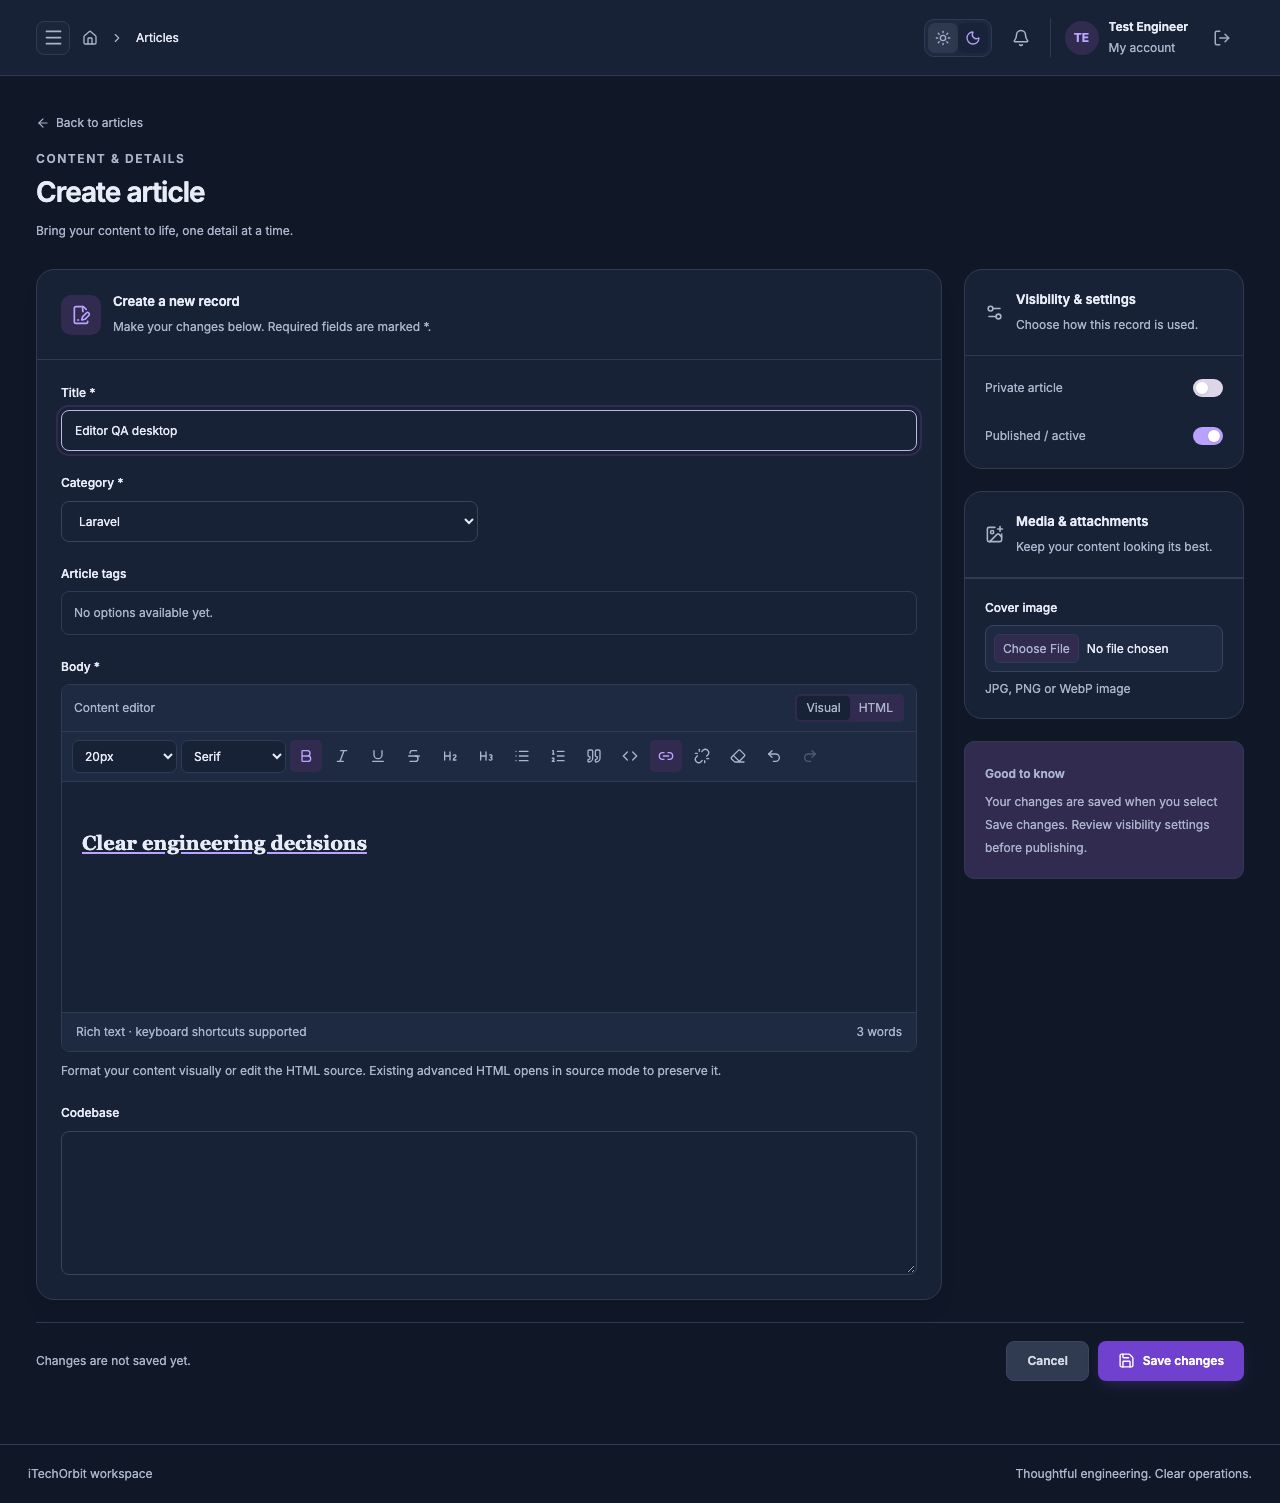
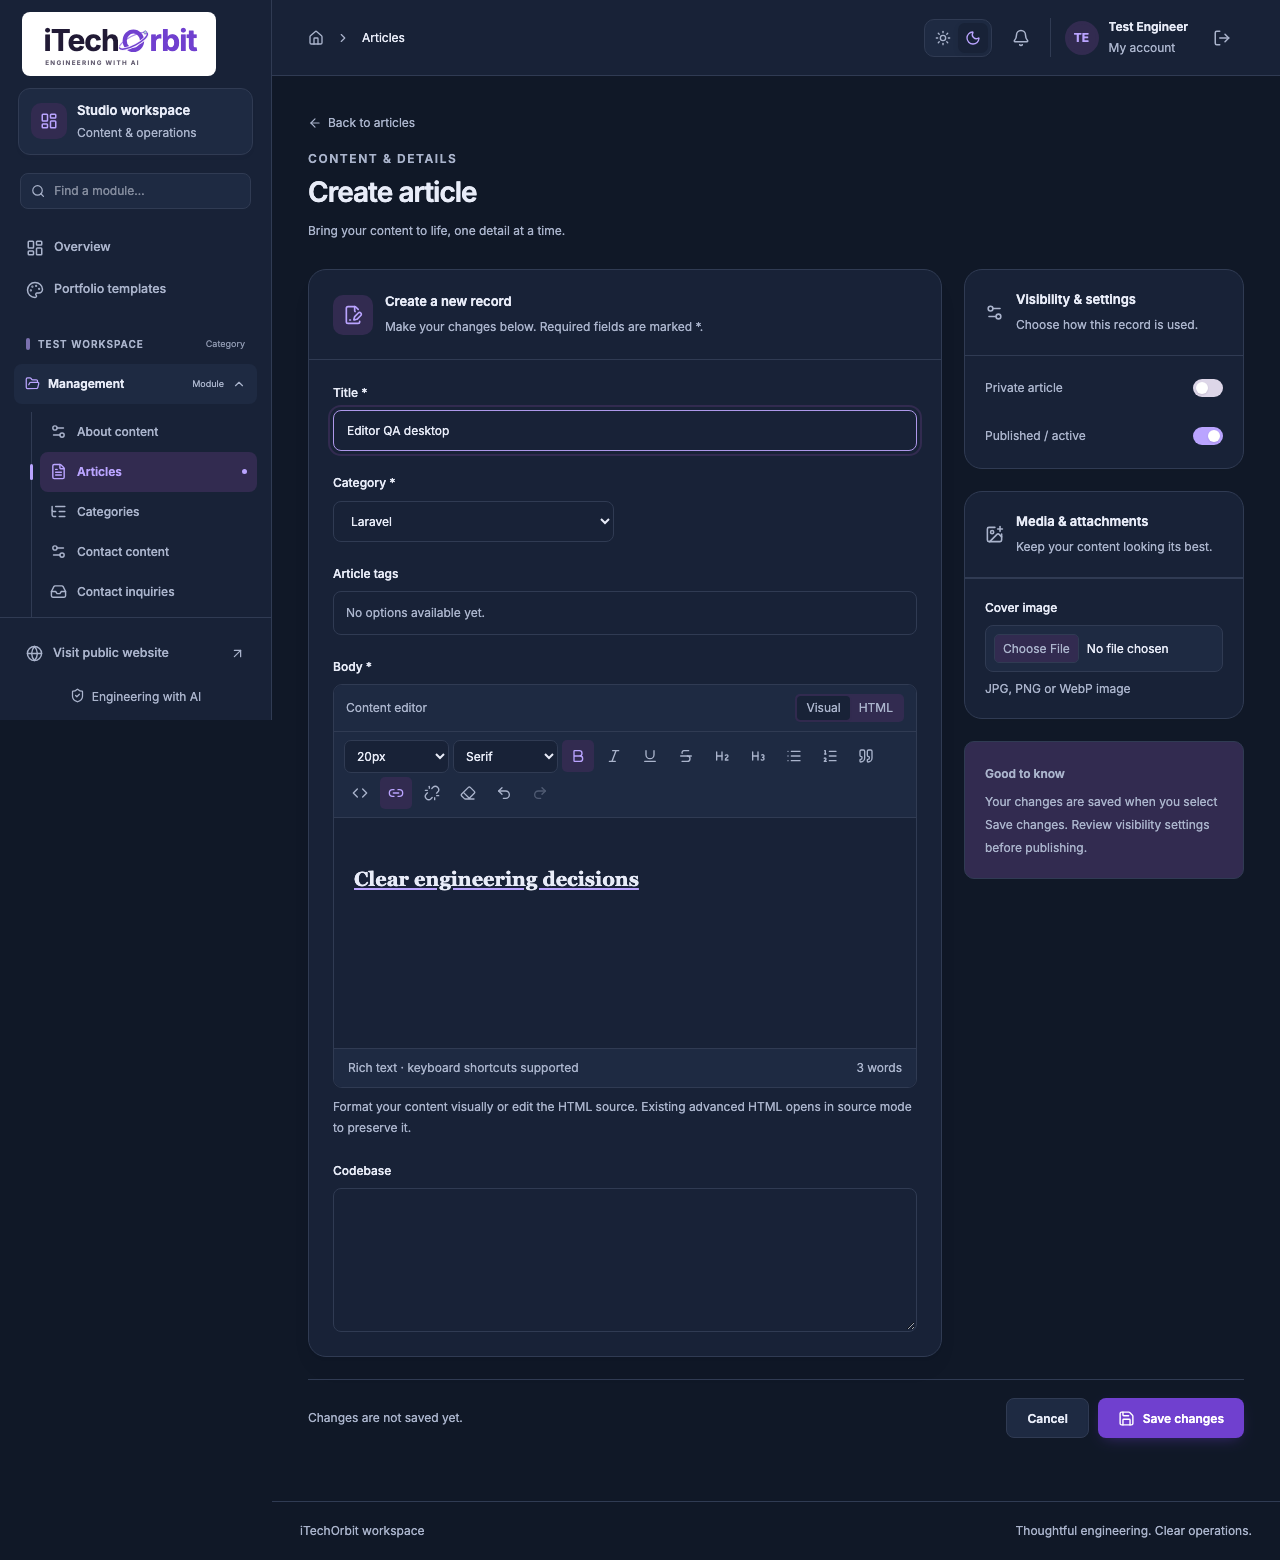
Restore previous responsive sidebar behavior

diff --git a/resources/js/layouts/AdminLayout.tsx b/resources/js/layouts/AdminLayout.tsx
@@ -26,8 +26,10 @@ export default function AdminLayout({ children, title, navigation }: { children:
       if (event.shiftKey && document.activeElement === first) { event.preventDefault(); last?.focus(); }
       else if (!event.shiftKey && document.activeElement === last) { event.preventDefault(); first?.focus(); }
     };
-    document.addEventListener('keydown', keys);
-    return () => { document.body.style.overflow = previous; document.removeEventListener('keydown', keys); };
+    const desktop = window.matchMedia('(min-width: 1024px)');
+    const resize = () => { if (desktop.matches) setOpen(false); };
+    document.addEventListener('keydown', keys); desktop.addEventListener('change', resize);
+    return () => { document.body.style.overflow = previous; document.removeEventListener('keydown', keys); desktop.removeEventListener('change', resize); };
   }, [open]);
   const groups = new Map<string, Map<string, Navigation>>();
   for (const item of navigation.filter(item => `${item.label} ${item.group ?? ''} ${item.module ?? ''}`.toLowerCase().includes(search.toLowerCase()))) {
@@ -41,7 +43,7 @@ export default function AdminLayout({ children, title, navigation }: { children:
   const initials = auth.user?.name.trim().split(/\s+/).slice(0, 2).map(word => word[0]).join('').toUpperCase();
   return <div className="workspace" data-theme={theme}><Head title={`${title} | iTechOrbit workspace`}><meta name="robots" content="noindex,nofollow" /></Head><a className="skip-link" href="#main">Skip to content</a>
     {open && <button className="workspace-overlay" aria-label="Close workspace overlay" onClick={() => { setOpen(false); trigger.current?.focus(); }} />}
-    <aside id="workspace-sidebar" ref={aside} className={`workspace-sidebar ${open ? 'is-open' : ''}`} role={open ? 'dialog' : undefined} aria-modal={open || undefined} aria-label="Workspace sidebar"><div className="workspace-sidebar-brand"><Link href="/home" className="brand workspace-brand" aria-label="iTechOrbit workspace" onClick={() => setOpen(false)}><BrandLogo /></Link><button className="workspace-mobile-close workspace-icon-button" aria-label="Close workspace navigation" onClick={() => { setOpen(false); trigger.current?.focus(); }}><X size={19} /></button></div>
+    <aside ref={aside} className={`workspace-sidebar ${open ? 'is-open' : ''}`} role={open ? 'dialog' : undefined} aria-modal={open || undefined} aria-label="Workspace sidebar"><div className="workspace-sidebar-brand"><Link href="/home" className="brand workspace-brand" aria-label="iTechOrbit workspace" onClick={() => setOpen(false)}><BrandLogo /></Link><button className="workspace-mobile-close workspace-icon-button" aria-label="Close workspace navigation" onClick={() => { setOpen(false); trigger.current?.focus(); }}><X size={19} /></button></div>
       <div className="workspace-sidebar-context"><span className="workspace-context-icon"><LayoutDashboard size={18} /></span><div><strong>Studio workspace</strong><span>Content & operations</span></div></div>
       <label className="workspace-sidebar-search"><Search size={16} aria-hidden="true" /><input aria-label="Find a module" value={search} onChange={event => setSearch(event.target.value)} placeholder="Find a module…" /></label>
       <nav className="workspace-navigation" aria-label="Workspace navigation"><Link href="/home" onClick={() => setOpen(false)} className={`workspace-nav-link ${current === 'home' ? 'is-current' : ''}`} aria-current={current === 'home' ? 'page' : undefined}><LayoutDashboard size={18} /><span>Overview</span></Link><Link href="/workspace/portfolio-templates" onClick={() => setOpen(false)} className={`workspace-nav-link ${url.startsWith('/workspace/portfolio-templates') ? 'is-current' : ''}`} aria-current={url.startsWith('/workspace/portfolio-templates') ? 'page' : undefined}><Palette size={18} /><span>Portfolio templates</span></Link>
@@ -49,6 +51,6 @@ export default function AdminLayout({ children, title, navigation }: { children:
         {!groups.size && <p className="workspace-nav-empty">No matching modules.</p>}
       </nav><div className="workspace-sidebar-footer"><SiteLink href="/" className="workspace-nav-link"><Globe size={17} /><span>Visit public website</span><ArrowUpRight size={15} /></SiteLink><div><ShieldCheck size={15} /><span>Engineering with AI</span></div></div>
     </aside>
-    <div className="workspace-body"><header className="workspace-topbar"><div className="workspace-topbar-start"><button ref={trigger} className="workspace-mobile-trigger workspace-icon-button" aria-label="Open workspace navigation" aria-controls="workspace-sidebar" aria-expanded={open} onClick={() => setOpen(true)}><Menu size={21} /></button><div className="workspace-breadcrumb"><Link href="/home" aria-label="Workspace overview"><Home size={16} /></Link><ChevronRight size={14} /><span>{title}</span></div></div><div className="workspace-topbar-actions"><div className="workspace-theme-switch" role="group" aria-label="Workspace appearance"><button type="button" aria-label="Light theme" aria-pressed={theme === 'light'} title="Light theme" onClick={() => setTheme('light')}><Sun size={16} /></button><button type="button" aria-label="Dark theme" aria-pressed={theme === 'dark'} title="Dark theme" onClick={() => setTheme('dark')}><Moon size={16} /></button></div>{navigation.some(item => item.url === '/contacts') && <Link href="/contacts" aria-label="Contact inquiries" className="workspace-inbox-link"><Bell size={18} /></Link>}<Link href="/account/settings" className="workspace-user" aria-label="Account settings"><span>{initials || 'U'}</span><div><strong>{auth.user?.name}</strong><small>My account</small></div></Link><Button variant="ghost" size="icon" aria-label="Sign out" onClick={() => router.post('/logout')}><LogOut size={18} /></Button></div></header><main id="main" className="workspace-main">{children}</main><footer className="workspace-footer"><span>iTechOrbit workspace</span><span>Thoughtful engineering. Clear operations.</span></footer></div>
+    <div className="workspace-body"><header className="workspace-topbar"><div className="workspace-topbar-start"><button ref={trigger} className="workspace-mobile-trigger workspace-icon-button" aria-label="Open workspace navigation" aria-expanded={open} onClick={() => setOpen(true)}><Menu size={21} /></button><div className="workspace-breadcrumb"><Link href="/home" aria-label="Workspace overview"><Home size={16} /></Link><ChevronRight size={14} /><span>{title}</span></div></div><div className="workspace-topbar-actions"><div className="workspace-theme-switch" role="group" aria-label="Workspace appearance"><button type="button" aria-label="Light theme" aria-pressed={theme === 'light'} title="Light theme" onClick={() => setTheme('light')}><Sun size={16} /></button><button type="button" aria-label="Dark theme" aria-pressed={theme === 'dark'} title="Dark theme" onClick={() => setTheme('dark')}><Moon size={16} /></button></div>{navigation.some(item => item.url === '/contacts') && <Link href="/contacts" aria-label="Contact inquiries" className="workspace-inbox-link"><Bell size={18} /></Link>}<Link href="/account/settings" className="workspace-user" aria-label="Account settings"><span>{initials || 'U'}</span><div><strong>{auth.user?.name}</strong><small>My account</small></div></Link><Button variant="ghost" size="icon" aria-label="Sign out" onClick={() => router.post('/logout')}><LogOut size={18} /></Button></div></header><main id="main" className="workspace-main">{children}</main><footer className="workspace-footer"><span>iTechOrbit workspace</span><span>Thoughtful engineering. Clear operations.</span></footer></div>
   </div>;
 }

diff --git a/tests/browser/website.spec.ts b/tests/browser/website.spec.ts
@@ -70,14 +70,11 @@ test('contact validation and successful inquiry', async ({ page }) => {
 test('authentication, admin CRUD, inbox and permission interface', async ({ page, isMobile }) => {
   await page.goto('/posts'); await expect(page).toHaveURL(/\/login$/);
   await page.getByLabel('Email address').fill('admin@example.test'); await page.getByLabel('Password', { exact: true }).fill('Browser-test-password-42'); await page.getByRole('button', { name: 'Sign in', exact: true }).click(); await expect(page).toHaveURL(/\/(home|posts)$/);
-  await expect(page.getByRole('button', { name: 'Open workspace navigation', exact: true })).toHaveAttribute('aria-expanded', 'false');
-  await expect(page.locator('.workspace-sidebar')).toBeHidden();
-  await page.getByRole('button', { name: 'Open workspace navigation', exact: true }).click();
+  if (isMobile) await page.getByRole('button', { name: 'Open workspace navigation', exact: true }).click();
   const workspaceLogo = page.getByRole('link', { name: 'iTechOrbit workspace', exact: true }).getByRole('img');
   await expect(workspaceLogo).toBeVisible();
   await expect.poll(() => workspaceLogo.evaluate((image: HTMLImageElement) => image.complete && image.naturalWidth > 0)).toBeTruthy();
-  await page.getByRole('button', { name: 'Close workspace navigation', exact: true }).click();
-  await expect(page.locator('.workspace-sidebar')).toBeHidden();
+  if (isMobile) await page.getByRole('button', { name: 'Close workspace navigation', exact: true }).click();
   await page.goto('/posts/create'); await page.getByLabel('Title *', { exact: true }).fill(`Browser CRUD ${isMobile ? 'mobile' : 'desktop'}`); await page.getByLabel('Category *', { exact: true }).selectOption({ label: 'Laravel' }); await page.getByLabel('Body *', { exact: true }).fill('<p>Browser regression article.</p>'); await page.getByRole('button', { name: 'Save changes' }).click(); await expect(page).toHaveURL(/\/posts$/);
   const title = `Browser CRUD ${isMobile ? 'mobile' : 'desktop'}`; await page.getByRole('link', { name: `Edit ${title}`, exact: true }).click(); await page.getByLabel('Title *', { exact: true }).fill(title + ' revised'); await page.getByRole('button', { name: 'Save changes' }).click(); await expect(page).toHaveURL(/\/posts$/); await page.getByRole('button', { name: `Delete ${title} revised`, exact: true }).click(); await expect(page.getByRole('dialog')).toBeVisible(); await page.getByRole('button', { name: 'Delete record', exact: true }).click(); await expect(page.getByText(title + ' revised', { exact: true })).toHaveCount(0);
   await page.goto('/contacts'); await expect(page.getByRole('heading', { level: 1 })).toHaveText('Contact inquiries'); await page.goto('/permissions'); await expect(page.getByLabel('Select role')).toBeVisible(); await page.getByLabel('Select role').selectOption('4'); await expect(page.getByRole('heading', { level: 1 })).toHaveText('Roles & permissions');
@@ -210,16 +207,14 @@ test('header sign-in and account dropdown support profile settings and logout', 
   await page.goto('/account/settings'); await expect(page).toHaveURL(/\/login$/);
 });
 
-test('workspace tables load server-side search sorting pagination and recover from errors', async ({ page }, testInfo) => {
+test('workspace tables load server-side search sorting pagination and recover from errors', async ({ page, isMobile }, testInfo) => {
   await page.goto('/login'); await page.getByLabel('Email address').fill('admin@example.test'); await page.getByLabel('Password', { exact: true }).fill('Browser-test-password-42'); await page.getByRole('button', { name: 'Sign in', exact: true }).click(); await expect(page).toHaveURL(/\/home$/);
   await page.getByRole('button', { name: 'Dark theme', exact: true }).click();
   await expect(page.locator('.workspace')).toHaveAttribute('data-theme', 'dark');
   await page.reload();
   await expect(page.locator('.workspace')).toHaveAttribute('data-theme', 'dark');
   await page.screenshot({ path: testInfo.outputPath('admin-dashboard.png'), fullPage: true });
-  await expect(page.getByRole('button', { name: 'Open workspace navigation', exact: true })).toHaveAttribute('aria-expanded', 'false');
-  await expect(page.locator('.workspace-sidebar')).toBeHidden();
-  await page.getByRole('button', { name: 'Open workspace navigation', exact: true }).click();
+  if (isMobile) await page.getByRole('button', { name: 'Open workspace navigation', exact: true }).click();
   await expect(page.getByRole('navigation', { name: 'Workspace navigation' }).getByText('Test workspace', { exact: true })).toBeVisible();
   await expect(page.locator('.workspace-module-label').first()).toHaveText('Module');
   await expect(page.locator('.workspace-nav-group>p small').first()).toHaveText('Category');
@@ -230,9 +225,7 @@ test('workspace tables load server-side search sorting pagination and recover fr
   await expect(page.getByRole('navigation', { name: 'Workspace navigation' }).getByRole('link', { name: 'Articles', exact: true })).toBeVisible();
   await expect(page.getByRole('navigation', { name: 'Workspace navigation' }).getByRole('link', { name: 'Categories', exact: true })).toHaveCount(0);
   await page.getByLabel('Find a module').fill('');
-  await page.keyboard.press('Escape');
-  await expect(page.locator('.workspace-sidebar')).toBeHidden();
-  await expect(page.getByRole('button', { name: 'Open workspace navigation', exact: true })).toBeFocused();
+  if (isMobile) await page.keyboard.press('Escape');
   await page.goto('/posts');
   await expect(page.locator('.workspace')).toHaveAttribute('data-theme', 'dark');
   await page.evaluate(() => { document.documentElement.dataset.tableDocument = 'retained'; });
@@ -319,9 +312,7 @@ test('portfolio template studio previews five layouts and persists the public se
   test.setTimeout(60000); // Five themes, twenty section-anchor checks and public return navigation.
   const errors: string[] = []; page.on('pageerror', error => errors.push(error.message));
   await page.goto('/login'); await page.getByLabel('Email address').fill('admin@example.test'); await page.getByLabel('Password', { exact: true }).fill('Browser-test-password-42'); await page.getByRole('button', { name: 'Sign in', exact: true }).click(); await expect(page).toHaveURL(/\/home$/);
-  await expect(page.getByRole('button', { name: 'Open workspace navigation', exact: true })).toHaveAttribute('aria-expanded', 'false');
-  await expect(page.locator('.workspace-sidebar')).toBeHidden();
-  await page.getByRole('button', { name: 'Open workspace navigation', exact: true }).click();
+  if (isMobile) await page.getByRole('button', { name: 'Open workspace navigation', exact: true }).click();
   await page.getByRole('link', { name: 'Portfolio templates', exact: true }).click();
   await expect(page.getByRole('radio')).toHaveCount(5);
   await expect(page.getByRole('button', { name: 'Save template', exact: true })).toBeDisabled();

diff --git a/resources/css/admin.css b/resources/css/admin.css
@@ -191,7 +191,7 @@
 .workspace-link-editor button { padding:6px 9px; border-radius:5px; font-size:12px; color:var(--ws-accent); background:var(--ws-accent-soft); }
 .workspace-link-editor p { margin-top:8px; font-size:12px; color:var(--ws-muted); }
 @media(min-width:640px) { .workspace-topbar { padding-inline:30px; } .workspace-main { padding:34px 30px 45px; } .workspace-user div,.workspace-inbox-link { display:block; } .workspace-form-grid,.workspace-record-details { grid-template-columns:repeat(2,minmax(0,1fr)); } .workspace-field.is-wide { grid-column:1/-1; } }
-@media(min-width:1024px) { .workspace-main { padding:36px 36px 45px; } .workspace-topbar { padding-inline:36px; } }
+@media(min-width:1024px) { .workspace-sidebar { display:flex; } .workspace-body { margin-left:272px; } .workspace-mobile-trigger,.workspace-mobile-close,.workspace-overlay { display:none; } .workspace-main { padding:36px 36px 45px; } .workspace-topbar { padding-inline:36px; } }
 @media(min-width:1280px) { .workspace-resource-form { grid-template-columns:minmax(0,1fr) 280px; } }
 @media(max-width:639px) { .workspace-topbar { gap:8px; padding-inline:16px; } .workspace-topbar-actions { gap:5px; } .workspace-breadcrumb { font-size:12px; gap:7px; } .workspace-page-heading h1 { font-size:26px; } .workspace-table-heading,.workspace-table-tools { padding-inline:18px; } .table-live-state { display:none; } .workspace-search { width:100%; } .workspace-table-footer { padding-inline:18px; } .workspace-card-heading,.workspace-form-grid { padding:20px; } .workspace-form-actions>span { display:none; } .workspace-form-actions>div { width:100%; justify-content:flex-end; } }
 .workspace-overview-label { display:flex; align-items:center; gap:7px; color:var(--ws-muted); font-size:12px; }

diff --git a/docs/ADMIN_MODERNIZATION.md b/docs/ADMIN_MODERNIZATION.md
@@ -79,7 +79,3 @@ The existing authenticated server-side endpoint continues to handle debounced se
 51 PHP tests / 1,104 assertions, 3 frontend tests and all 34 browser checks pass, as do TypeScript, ESLint, Pint and client/SSR production builds. Reviewed synthetic captures include [dark table](assets/admin-table-dark-desktop.png), [light table](assets/admin-table-desktop.png), [dark editor](assets/admin-editor-dark-desktop.png) and [mobile editor](assets/admin-editor-dark-mobile.png). Tests verify actual AJAX requests, sorting/search/pagination and error recovery, persistence of both themes, permission-sensitive flows and safe formatting round trips. No Lighthouse score is claimed.
 
 Deploy the matching PHP/config files and rebuilt client/SSR assets using the existing approved staging workflow; refresh the configuration cache if used and restart SSR. There are no new environment variables, migrations or external services. Revert this change and rebuild matching assets/config cache to roll back; saved rich content remains intact, though an older release will omit the new font-size/font-family presentation. No data rollback is required. Production deployment was not performed.
-
-
-## Sidebar default state — 2026-10-16
-The workspace sidebar now starts collapsed on both desktop and mobile. A visible topbar menu button opens the navigation drawer without reserving an empty left column. The same close button, overlay, Escape dismissal, body-scroll lock and focus trap/restoration work at every viewport. Selecting a workspace link closes the drawer. The menu toggle exposes its expanded state and controls the identified sidebar. Existing authorized categories, modules, page links, search and ordering remain available when expanded. The theme preference continues to persist independently of sidebar state. No backend, data or environment changes are required.

diff --git a/docs/COMPLETION_REPORT.md b/docs/COMPLETION_REPORT.md
@@ -223,7 +223,3 @@ Implemented bounded font-size/font-family editor controls, rich-text project con
 Validation: 51 PHP tests / 1,104 assertions, 3 frontend tests, all 34 desktop/mobile browser checks, TypeScript, ESLint, Pint and client/SSR production builds pass. Both themes and the editor/table were visually reviewed using synthetic data; captures are under docs/assets. Tests include safe formatting persistence into public content and reopening, unsafe input removal, theme persistence, actual server-side queries, permissions and regression flows. No real records, environment configuration, production data or deployment were changed. No performance score was measured.
 
 Release/rollback and behavior are documented in ADMIN_MODERNIZATION.md. Deploy matching PHP/config and assets, refresh cached configuration where used, and restart SSR through the approved staging workflow. No migration or new service is needed. Roll back by reverting the change and rebuilding corresponding assets/config; existing rich content is retained.
-
-
-### Sidebar collapsed initially — 2026-10-16
-The sidebar starts collapsed on all viewport sizes. The topbar menu button is always visible, and the navigation drawer uses the existing close button, overlay, Escape/focus behavior and link-close handling. Removed the desktop forced-open rule and reserved left margin. All 8 affected desktop/mobile browser checks, TypeScript, lint and client/SSR builds pass after fixing the legacy desktop override discovered in the first run. Updated captures reflect the full-width collapsed workspace. No database/environment changes. Build/deploy matching assets and restart SSR via the existing approved release workflow; revert this commit and rebuild to roll back.

diff --git a/docs/IMPLEMENTATION_CHECKLIST.md b/docs/IMPLEMENTATION_CHECKLIST.md
@@ -282,8 +282,4 @@ Status legend: [x] implemented/verified, [ ] pending. Updated continuously; inco
 - [x] Refine server-side list presentation, status badges, action states, filter summaries/reset and live feedback; retain authenticated, scoped endpoints.
 - [x] Verify 51 PHP tests / 1,104 assertions, 3 frontend tests, all 34 desktop/mobile browser checks, TypeScript, lint, Pint and client/SSR builds. Formatting survives save/reopen/public display; unsafe formatting is rejected; both themes persist through reload/navigation. Review and save light/dark captures. Initial category-label assertion caught the new marker text being combined with the group name; keep the group name in its own span.
 
-
-## Sidebar collapsed by default — 2026-10-16
-- [x] Remove desktop-only forced-open sidebar and reserved left margin. Start collapsed on every viewport with a visible menu toggle and matching aria-controls.
-- [x] Reuse the navigation drawer, close button, overlay, Escape dismissal and focus trap/restoration for desktop and mobile.
-- [x] All 8 affected desktop/mobile browser scenarios pass, including default collapse, drawer controls, Escape/focus restoration, navigation, CRUD, tables, editor and template chooser. Types, lint and client/SSR builds pass. Initial desktop checks exposed the remaining legacy forced-open rule; remove it and rerun successfully. Refresh captures.
+- [x] Restore previous sidebar behavior at user request: expanded desktop navigation and collapsed mobile drawer. Four affected desktop/mobile CRUD/table browser checks, types, lint and client/SSR builds pass.
